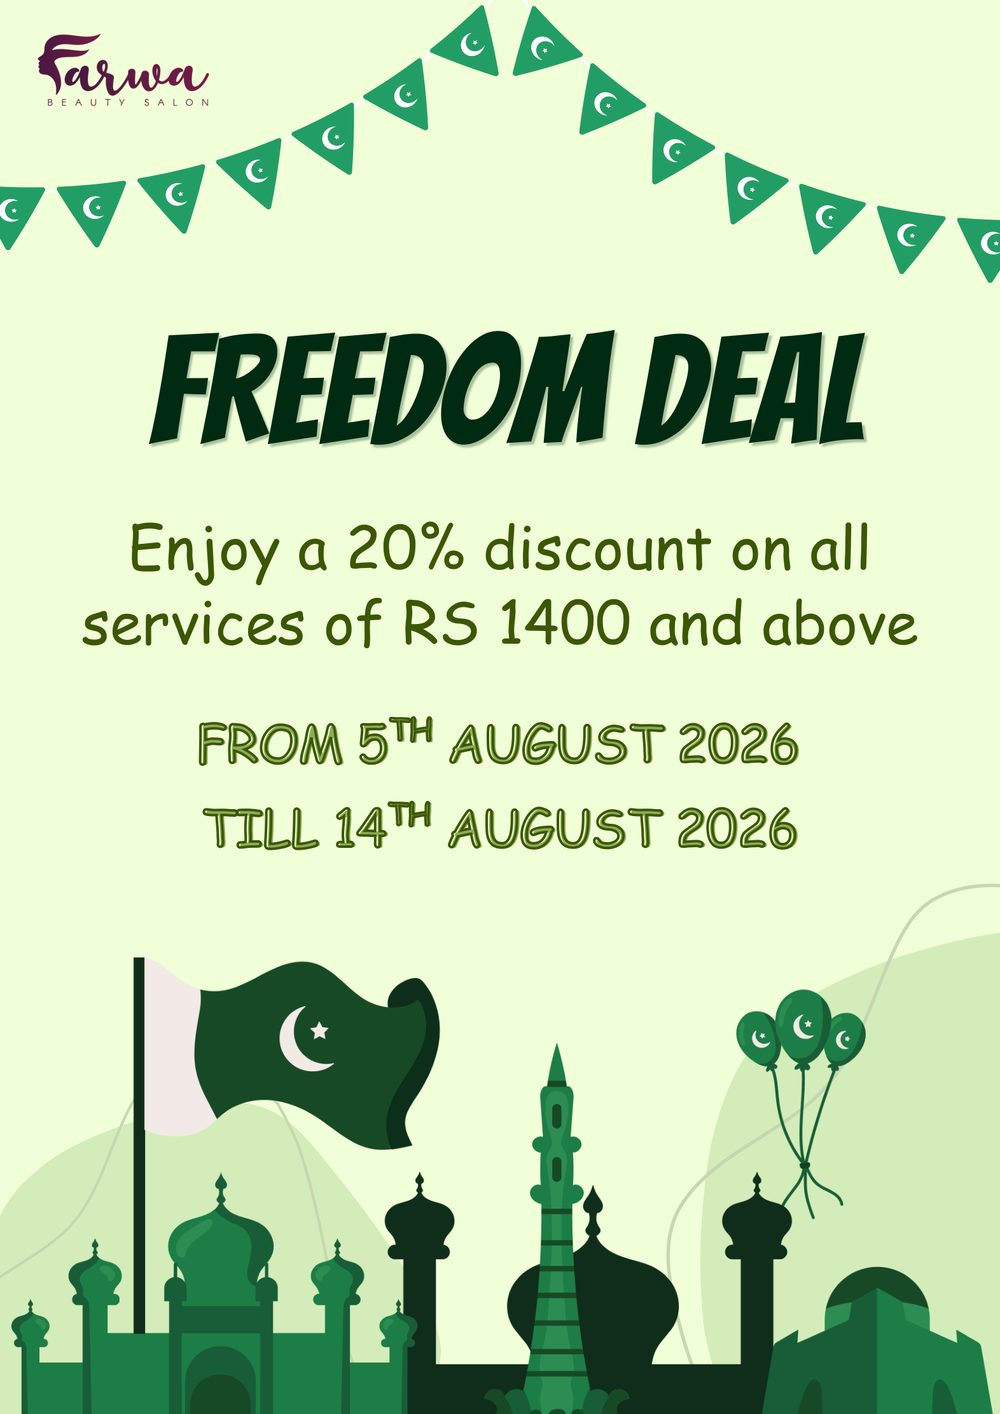
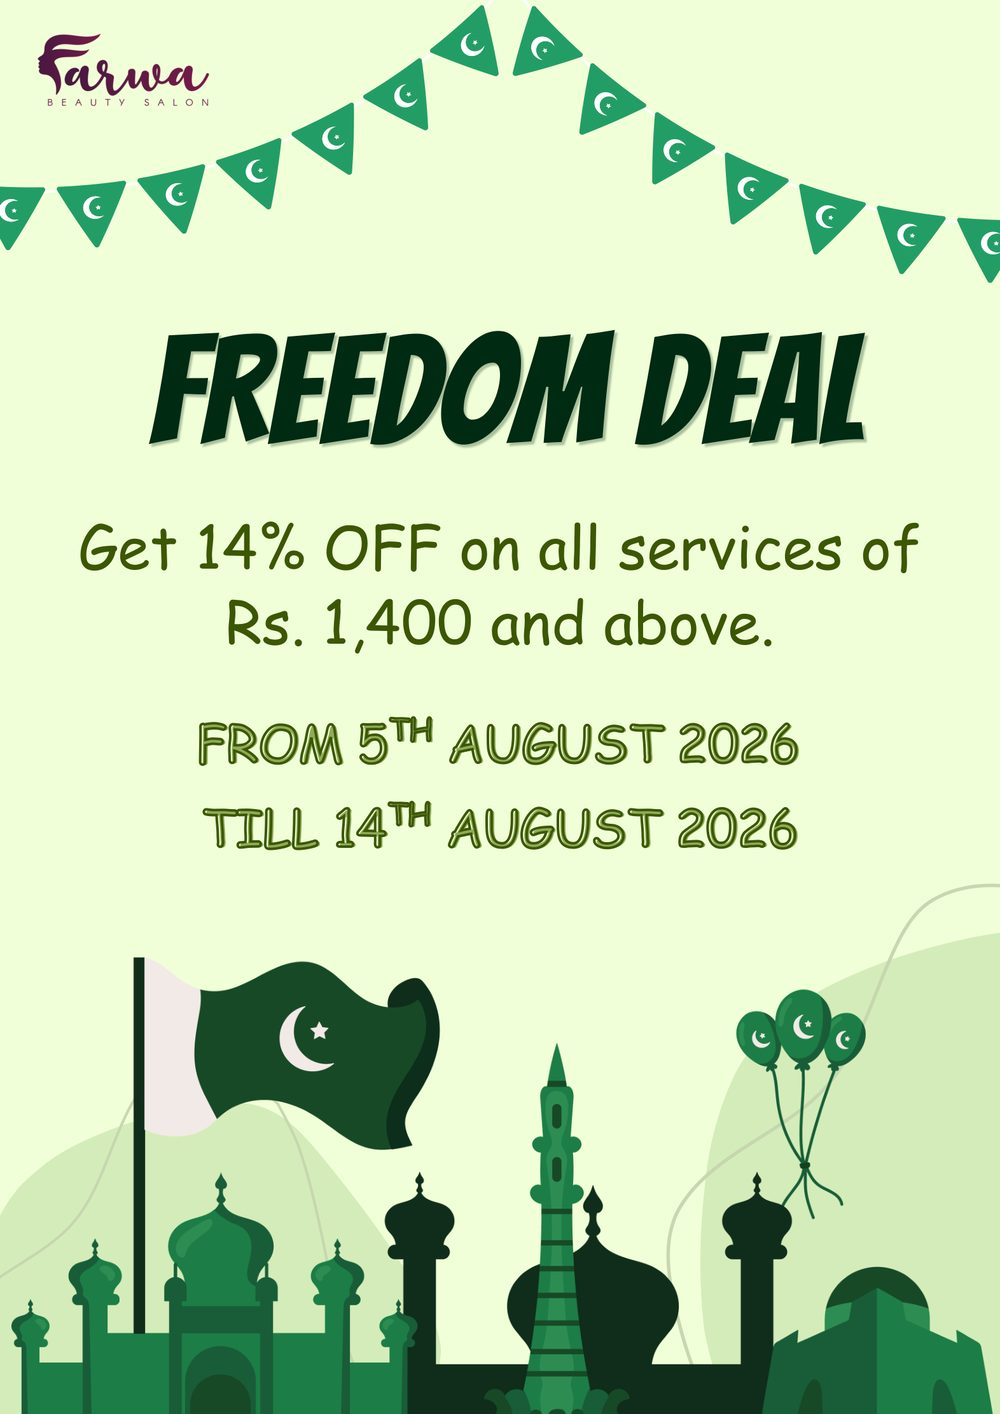
feat(analytics): 14% poster swapped in, plus conversion + call tracking
Poster: regenerated both images from the corrected PDF, so the artwork
now reads 14% and matches the page. On-page 119KB, social card 46KB.

Analytics gap closed. The site tracked BookingStarted but never fired
anything on success, so booking completion rate was unmeasurable - the
one number every other decision depends on. Adds:

- BookingCompleted, fired just before the confirmation redirect with
  service, category, add-on count and basket value in PKR. Started vs
  Completed now gives a real funnel.
- totalPricePkr derived alongside totalDurationMinutes - it doubles as
  the check for whether a basket clears the Freedom Deal's Rs 1,400.
- CallIntent on the sticky-bar phone tap. Calls are a primary conversion
  path in Karachi and were completely invisible before.

Gate: lint, 340 unit, build, 17 e2e (book flow + axe).

Changed region(s): [[0.062, 0.3734, 0.93, 0.4668]]

diff --git a/app/book/book-client.jsx b/app/book/book-client.jsx
@@ -4,7 +4,7 @@ import { useState, useEffect, useCallback, useRef } from 'react'
 import { useRouter, useSearchParams } from 'next/navigation'
 import { m, AnimatePresence } from 'framer-motion'
 import { ChevronLeft, ChevronRight, Clock, Check, Loader2, ChevronDown } from 'lucide-react'
-import { SERVICES, ALL_SERVICES, CAT_SLUGS, formatPrice, formatDuration, PHONE_RE, getAddonsForService } from '../../src/data.js'
+import { SERVICES, ALL_SERVICES, CAT_SLUGS, formatPrice, formatDuration, PHONE_RE, getAddonsForService, track } from '../../src/data.js'
 import { isDateBlocked, getBlockedReason } from '../../lib/blocked-dates.js'
 import { toLocalDateString } from '../../lib/date-local.js'
 import { computeBookingDurationMinutes } from '../../lib/booking-duration.js'
@@ -202,6 +202,15 @@ export default function BookClient() {
   const totalDurationMinutes = selectedService
     ? computeBookingDurationMinutes(selectedService, addonIdsList)
     : 0
+  /* Basket value in PKR — used for the BookingCompleted conversion event, and
+     it is what decides whether the Freedom Deal's Rs 1,400 threshold is met. */
+  const totalPricePkr = selectedService
+    ? (selectedService.pricePkr || 0) +
+      addonIdsList.reduce(
+        (sum, id) => sum + (ALL_SERVICES.find((a) => a.id === id)?.pricePkr || 0),
+        0,
+      )
+    : 0
 
   useEffect(() => {
     if (step !== 1 || !selectedDate || !selectedService) return
@@ -328,6 +337,17 @@ export default function BookClient() {
         duration: String(confirmPayload.duration),
       })
       if (data.booking.cancelToken) params.set('token', data.booking.cancelToken)
+
+      /* The conversion. BookingStarted was already tracked at step 1, so this
+         is what makes booking completion rate measurable at all. Fired before
+         the redirect so it survives the navigation. */
+      track('BookingCompleted', {
+        service: data.booking.service,
+        category: selectedService?.category,
+        addons: selectedAddonIds.length,
+        value: totalPricePkr,
+      })
+
       router.push(`/book/confirmation?${params.toString()}`)
     } catch (err) {
       const aborted = err?.name === 'AbortError'

diff --git a/src/shared.jsx b/src/shared.jsx
@@ -556,6 +556,7 @@ export function StickyMobileCTA({ hidden = false }) {
             <a
               href={`tel:+${WA_NUMBER}`}
               aria-label="Call the salon"
+              onClick={() => track('CallIntent', { from: 'sticky-bar' })}
               className="tap-safe min-h-[44px] flex-1 inline-flex items-center justify-center gap-1.5 text-white/80 hover:text-white active:scale-[0.98] text-[10px] tracking-[0.12em] uppercase font-medium font-['Inter'] py-2.5 transition-colors"
             >
               <Phone className="w-3.5 h-3.5 shrink-0" aria-hidden="true" />
